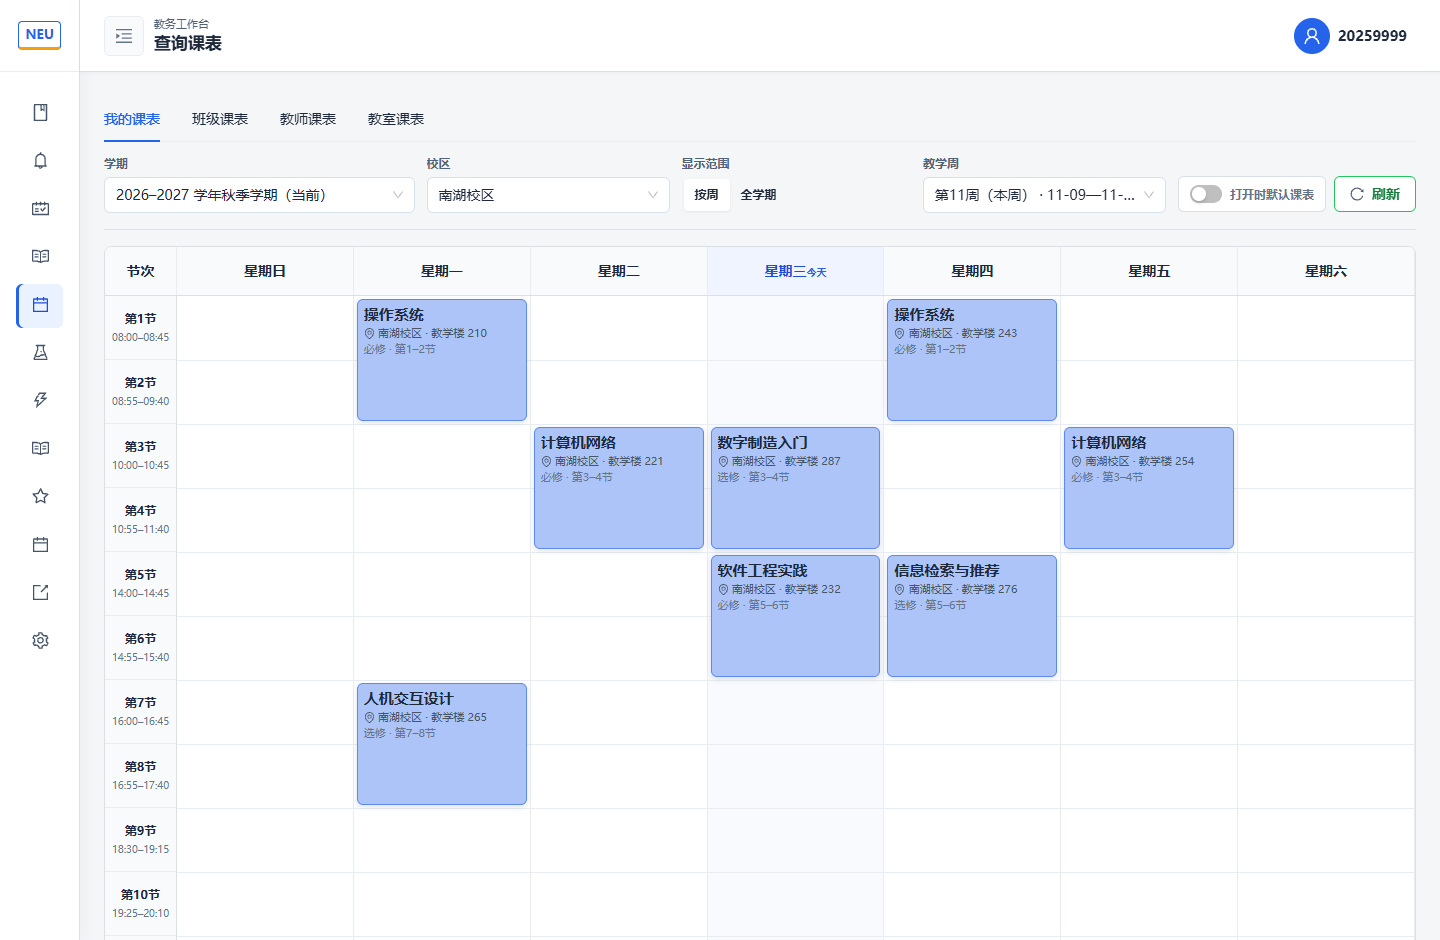
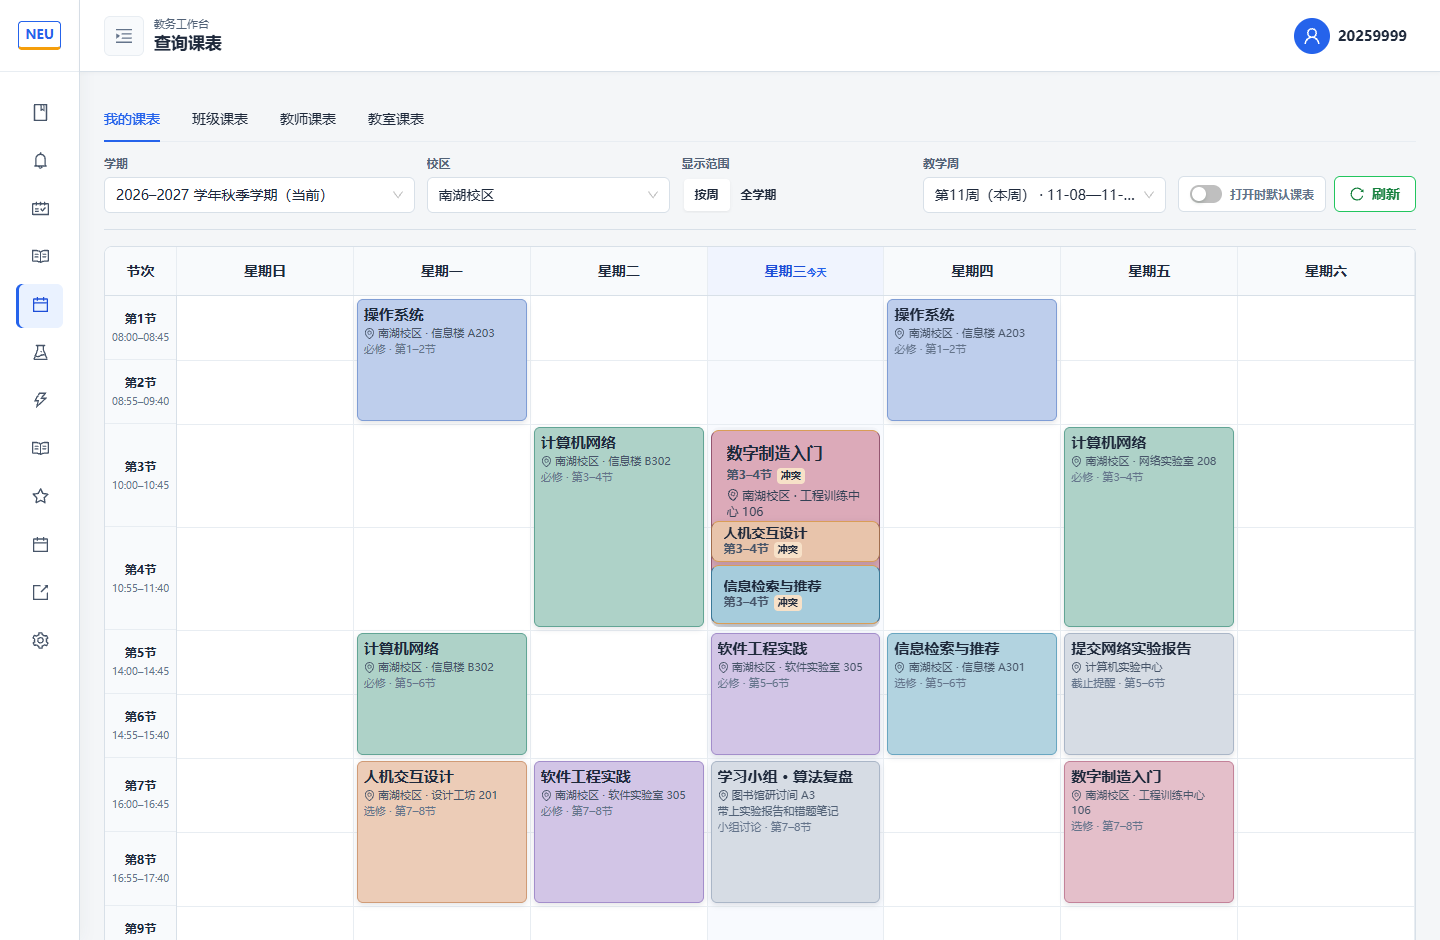
Show stacked timetable courses and fix release source maps

diff --git a/frontend/src/pages/TimetablePage.js b/frontend/src/pages/TimetablePage.js
@@ -4821,16 +4821,19 @@ export function TimetableGrid({
                         aria-label={`${content.name}，${sectionText}，${viewMode === 'term' ? formatWeekNumbers(course.weeks) : content.location}${course.hasActualConflict ? '，同周时间冲突' : ''}，${mobileTapToExpand ? (isExpanded ? '已展开，再次点击查看详情' : '已折叠，点击展开') : '悬停展开，点击查看详情'}`}
                       >
                         <strong>{content.name}</strong>
-                        {!dense && <span className={`timetable-cluster-stack-summary${viewMode === 'term' ? ' is-week-text' : ''}`}>{viewMode === 'term'
-                          ? formatWeekNumbers(course.weeks) || '周次待确认'
-                          : sectionText}</span>}
-                        {!dense && <span className="timetable-cluster-stack-detail">{sectionText}</span>}
+                        {!dense && <span className="timetable-cluster-stack-caption">
+                          <span className={`timetable-cluster-stack-summary${viewMode === 'term' ? ' is-week-text' : ''}`}>{viewMode === 'term'
+                            ? formatWeekNumbers(course.weeks) || '周次待确认'
+                            : sectionText}</span>
+                          {course.hasActualConflict && <small className="timetable-cluster-stack-conflict">冲突</small>}
+                        </span>}
+                        {!dense && viewMode === 'term' && <span className="timetable-cluster-stack-detail">{sectionText}</span>}
                         {!dense && <span className="timetable-cluster-stack-detail"><EnvironmentOutlined /> {content.location}</span>}
                         {!dense && contextText && <span className="timetable-cluster-stack-detail">{contextText}</span>}
                         {!dense && content.type && <span className="timetable-cluster-stack-detail">{content.type}</span>}
                         {mobileCompact && !selectionCompact && content.location && <span className="timetable-cluster-stack-detail">{content.location}</span>}
                         {selectionCompact && course.layer && <small className="selection-course-state">{selectionCourseStateLabel(course)}</small>}
-                        {!mobileCompact && course.hasActualConflict && <small>{isExpanded ? '同周时间冲突' : '冲突'}</small>}
+                        {selectionCompact && !mobileCompact && course.hasActualConflict && <small>{isExpanded ? '同周时间冲突' : '冲突'}</small>}
                       </button>
                       </PersonalConflictPopover>
                     );

diff --git a/frontend/src/pages/TimetablePage.css b/frontend/src/pages/TimetablePage.css
@@ -1102,8 +1102,15 @@
   overflow-wrap: anywhere;
 }
 
-.timetable-cluster-stack-summary {
+.timetable-cluster-stack-caption {
+  display: flex;
   flex: 0 0 auto;
+  align-items: baseline;
+  gap: 5px;
+}
+
+.timetable-cluster-stack-summary {
+  min-width: 0;
   color: var(--color-feature-caption, #475569);
   font-size: 12px;
   font-weight: 600;
@@ -1115,7 +1122,18 @@
   color: var(--color-brand-strong);
 }
 
-.timetable-cluster-stack-card small {
+.timetable-cluster-stack-conflict {
+  flex: 0 0 auto;
+  padding: 0 4px;
+  color: var(--color-ink);
+  background: color-mix(in srgb, var(--color-warning) 22%, var(--color-surface));
+  border-radius: 4px;
+  font-size: 10px;
+  font-weight: 750;
+  white-space: nowrap;
+}
+
+.timetable-cluster-stack-card > small {
   position: absolute;
   top: 6px;
   right: 7px;

diff --git a/frontend/vite.config.ts b/frontend/vite.config.ts
@@ -51,7 +51,7 @@ export default defineConfig(({ mode }) => {
     optimizeDeps: { esbuildOptions: { loader: { '.js': 'jsx' } } },
     build: {
       outDir: process.env.BUILD_PATH || 'build',
-      sourcemap: false,
+      sourcemap: process.env.NEU_KEEP_SOURCE_MAPS === '1' ? 'hidden' : false,
       minify: 'terser',
       terserOptions: { compress: { passes: 3 }, format: { comments: /@license|@preserve/ } },
       rollupOptions: {

diff --git a/README.md b/README.md
@@ -20,12 +20,18 @@
 | [![成绩明细展示多学期筛选、绩点和专业排名](assets/demo/scores.png)](assets/demo/scores.png) | [![培养计划展示分类进度、已修课程与剩余学分](assets/demo/academic-plan.png)](assets/demo/academic-plan.png) |
 | 按学期和课程类型筛选，查看分项成绩、官方绩点和学校提供的专业排名。 | 按类别看已修、在修和待修课程，区分必修、选修学分缺口，点开课程查看大纲。 |
 
-### 比较选课方案，查看课程安排
+### 看周课表，整理个人日程
 
-| [GPA 模拟器](docs/功能/GPA模拟器.md) | [课表与日程](docs/功能/查询课表.md) |
+[![周三第 3–4 节叠放三门不同颜色的课程，每门标有冲突，个人日程与课程同屏](assets/demo/timetable.png)](assets/demo/timetable.png)
+
+周三第 3–4 节的三门课叠放在同一格，悬停或用键盘聚焦可切换展开项，点击查看详情。课程按科目分色，学习小组和实验报告提醒也排在课表上。[查询课表使用说明](docs/功能/查询课表.md) · [手机端当日日程预览](assets/demo/timetable-agenda-mobile.png)
+
+### 模拟绩点，准备选课
+
+| [GPA 模拟器](docs/功能/GPA模拟器.md) | [选课工作台](docs/功能/选课系统.md) |
 | --- | --- |
-| [![GPA 模拟器展示预估成绩与学分](assets/demo/gpa-simulator.png)](assets/demo/gpa-simulator.png) | [![课表展示一周的课程时间与教室](assets/demo/timetable.png)](assets/demo/timetable.png) |
-| 从已有成绩和培养计划导入课程，调整预估成绩，比较并保存方案。 | 看周课表和当日日程，查询班级、教师与教室课表，检查时间冲突。 |
+| [![GPA 模拟器展示预估成绩与学分](assets/demo/gpa-simulator.png)](assets/demo/gpa-simulator.png) | [![选课工作台展示课程列表和方案组](assets/demo/course-selection.png)](assets/demo/course-selection.png) |
+| 从已有成绩和培养计划导入课程，调整预估成绩，比较并保存方案。 | 按课程和班次查找，整理方案组、预览课表与检查冲突。抢选、空位换课和权重投放按学校轮次、账号资格与用户配置执行。 |
 
 ### 查考核方式，整理活动证明
 
@@ -33,12 +39,6 @@
 | --- | --- |
 | [![课程大纲展示教材、学时和课程简介](assets/demo/course-outline.png)](assets/demo/course-outline.png) | [![四节活动展示活动记录与证书打包入口](assets/demo/festival-certificates.png)](assets/demo/festival-certificates.png) |
 | 按课程名、开课单位、学分和学时查找，读教学内容与考核方式，下载 HTML 或学校提供的附件。 | 汇总创意节、科普节、科技节和创业节记录，查看参与详情，按日期打包已颁发的证书。 |
-
-### 选课工作台
-
-[![选课工作台展示课程列表和方案组](assets/demo/course-selection.png)](assets/demo/course-selection.png)
-
-按课程和班次查找，整理方案组、预览课表与检查冲突。抢选、空位换课和权重投放按学校轮次、账号资格与用户配置执行。详见[选课说明](docs/功能/选课系统.md)。
 
 还可使用[成绩变动邮件](docs/功能/成绩追踪.md)、[考试与 ICS 导出](docs/功能/我的考试.md)、[实验选课](docs/功能/实验选课.md)、[科研训练](docs/功能/科研训练.md)、[评教](docs/功能/自动评教.md)和[离线查看](docs/功能/离线使用.md)。
 

diff --git a/docs/功能/查询课表.md b/docs/功能/查询课表.md
@@ -91,7 +91,8 @@ APP 本地版使用各自的数据目录；APP 客户端使用所连接服务端
 预览未来学期、清缓存、接口失败或日期数据不完整不会触发删除；无法确认时保留数据，待后续确认再清理。
 
 桌面端使用节次轴与七天课表；同一时段多门课程以可切换的堆叠卡片展示，不把课程折成
-“另 N 项”而隐藏主要信息。周视图的“教学周”选择框支持鼠标悬停时滚轮逐周切换，
+“另 N 项”而隐藏主要信息。实际冲突在课程名下方、节次或周次旁标为“冲突”。
+周视图的“教学周”选择框支持鼠标悬停时滚轮逐周切换，
 到首周或末周后不再继续切换。
 桌面客户端及桌面浏览器保持正常页面位置，不自动聚焦课表或周次栏；首次定位仅用于
 已确认的小屏幕视图，不能在响应式断点尚未初始化时误触发。

diff --git a/assets/demo/README.md b/assets/demo/README.md
@@ -8,4 +8,6 @@ npm --prefix frontend run build
 node tools/capture_readme_demo.cjs
 ```
 
+只刷新课表演示时，运行 `node tools/capture_readme_demo.cjs timetable timetable-agenda-mobile`。
+
 脚本在回环地址启动生产页面，拦截所有 API 和外部请求。课程、学号、学期、成绩、排名与活动均为虚构示例。请勿使用真实账号、导出的个人数据或学校响应更新这些图片。
